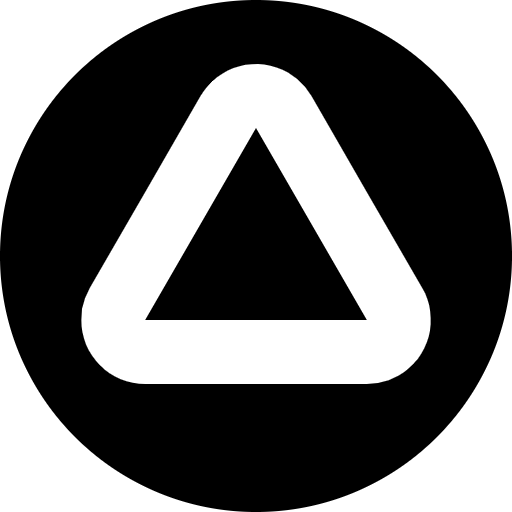
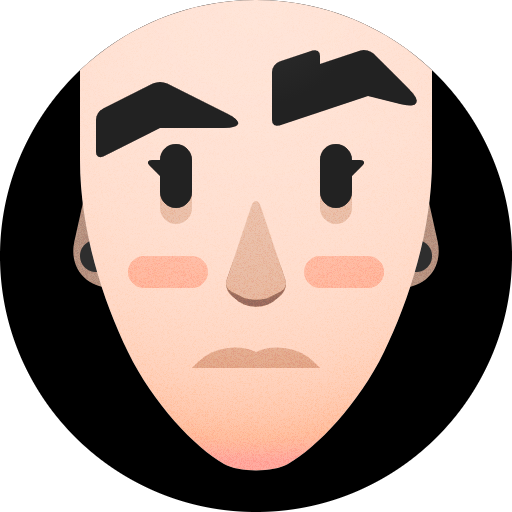
:art: new design with face that follows cursor.

diff --git a/src/components/Logo.tsx b/src/components/Logo.tsx
@@ -1,24 +1,143 @@
 import classnames from "classnames";
+import { useEffect, useRef } from "preact/hooks";
 import type { WrapperComponent } from "../types/WrapperComponent";
 
-export const Logo: WrapperComponent = ({ class: className, ...properties }) => (
-	<div
-		class={classnames(
-			// eslint-disable-next-line max-len
-			"pointer-events-none absolute origin-center left-1/2 top-1/2 w-200 h-200 transform-gpu -translate-y-1/2 -translate-x-1/2 flex rounded-full overflow-hidden text-black dark:text-white",
-			className
-		)}
-		{...properties}
-	>
-		<svg class="w-full" viewBox="0 0 4 4">
-			<circle class="fill-current" cx="2" cy="2" r="2" />
-			<path
-				class="text-white dark:text-black stroke-current"
-				d="M2 1l.865 1.5h-1.73z"
-				stroke-linecap="round"
-				stroke-linejoin="round"
-			/>
-			<path class="fill-current" d="M2 1l.865 1.5h-1.73z" />
-		</svg>
-	</div>
-);
+export const Logo: WrapperComponent = ({ class: className, ...properties }) => {
+	// eslint-disable-next-line no-null/no-null
+	const svg = useRef<SVGSVGElement>(null);
+
+	// eslint-disable-next-line functional/no-expression-statement, functional/functional-parameters
+	useEffect(() => {
+		const follow = ({
+			x: pointerX,
+			y: pointerY
+		}: Readonly<PointerEvent>) => {
+			const {
+				x: svgX = 0,
+				y: svgY = 0,
+				width = 0,
+				height = 0
+			} = svg.current?.getBoundingClientRect() ?? {};
+
+			// eslint-disable-next-line functional/no-expression-statement
+			svg.current?.style.setProperty(
+				"--x",
+				`${pointerX - (svgX + width / 2)}`
+			);
+			// eslint-disable-next-line functional/no-expression-statement
+			svg.current?.style.setProperty(
+				"--y",
+				`${pointerY - (svgY + height / 2)}`
+			);
+		};
+
+		// eslint-disable-next-line functional/no-expression-statement
+		window.addEventListener("pointermove", follow);
+
+		// eslint-disable-next-line functional/functional-parameters
+		return () => {
+			// eslint-disable-next-line functional/no-expression-statement
+			window.removeEventListener("pointermove", follow);
+		};
+	});
+
+	return (
+		<div
+			class={classnames(
+				// eslint-disable-next-line max-len
+				"pointer-events-none absolute origin-center left-1/2 top-1/2 w-200 h-200 transform-gpu -translate-y-1/2 -translate-x-1/2 flex rounded-full overflow-hidden text-black dark:text-white",
+				className
+			)}
+			{...properties}
+		>
+			<svg
+				aria-label="lukeshiru's avatar"
+				class="w-full"
+				ref={svg}
+				role="img"
+				viewBox="0 0 32 32"
+			>
+				<defs>
+					<clipPath id="clip">
+						<circle cx="16" cy="16" r="16" />
+					</clipPath>
+				</defs>
+				<g clip-path="url(#clip)">
+					<circle
+						class="text-black dark:text-white fill-current"
+						cx="16"
+						cy="16"
+						r="16"
+					/>
+					<g class="ears">
+						<path
+							fill="#B98"
+							// eslint-disable-next-line max-len
+							d="M6 9l-1.35 6.07C4.3 16.7 5.35 18 7 18h18c1.66 0 2.7-1.31 2.35-2.93L26 9H6z"
+						/>
+						<path
+							fill="#333"
+							d="M5 16a1 1 0 001 1h20a1 1 0 000-2H6a1 1 0 00-1 1z"
+						/>
+					</g>
+					<path
+						fill="#FDC"
+						// eslint-disable-next-line max-len
+						d="M5 0v10c0 4.35 1.42 8.75 3 12s4.18 5.95 6 7c.93.54 3.07.54 4 0 1.82-1.05 4.42-3.75 6-7 1.59-3.25 3-7.65 3-12V0H5z"
+					/>
+					<g class="face">
+						<path
+							fill="#ECB"
+							// eslint-disable-next-line max-len
+							d="M20 23h-8l.4-.4A3.32 3.32 0 0116 22a3.32 3.32 0 013.6.6l.4.4z"
+						/>
+						<path
+							fill="#B98"
+							// eslint-disable-next-line max-len
+							d="M14.59 18.59l-.24-.24c-.2-.2-.28-.56-.2-.82l.27-.79c.87-2.61 2.29-2.61 3.16 0l.26.79c.09.26 0 .63-.2.82l-.23.24a2 2 0 01-2.82 0z"
+						/>
+						<path
+							fill="#ECB"
+							// eslint-disable-next-line max-len
+							d="M14.16 17.53l1.52-4.58c.18-.52.46-.52.64 0l1.52 4.58a.6.6 0 01-.29.7l-.66.32c-.49.25-1.3.25-1.78 0l-.66-.33a.6.6 0 01-.3-.7z"
+						/>
+						<path
+							fill="#FCB"
+							// eslint-disable-next-line max-len
+							d="M9 16h3a1 1 0 010 2H9a1 1 0 010-2zm11 0h3a1 1 0 010 2h-3a1 1 0 010-2z"
+						/>
+						<path
+							fill="#ECB"
+							// eslint-disable-next-line max-len
+							d="M10 11.99V13a1 1 0 002 0v-1l-2-.01zm10 0V13a1 1 0 002 0v-1l-2-.01z"
+						/>
+						<path
+							fill="#333"
+							// eslint-disable-next-line max-len
+							d="M10 9.99V10h-.5c-.28 0-.34.16-.15.35L10 11v1a1 1 0 002 0v-2a1 1 0 00-1-1 1 1 0 00-1 .99zm10 0V12a1 1 0 002 0v-1l.65-.65c.2-.2.13-.35-.15-.35H22a1 1 0 00-1-1 1 1 0 00-1 .99zM10 8L6.45 9.78C6.2 9.9 6 9.78 6 9.5v-2c0-.28.2-.6.45-.72l3.1-1.56c.25-.12.65-.12.9 0l3.76 1.89c.99.49.9.89-.21.89h-4zm10-4.5V4l2.53-.84c.26-.09.63 0 .82.2l2.24 2.23c.78.78.54 1.2-.53.92L23 6l-5.53 1.84c-.26.09-.47-.06-.47-.34v-3c0-.28.21-.57.47-.66l2.06-.68c.26-.09.47.06.47.34z"
+						/>
+					</g>
+					<radialGradient
+						cx="16"
+						cy="0"
+						fx="16"
+						fy="0"
+						gradientUnits="userSpaceOnUse"
+						id="gradient"
+						r="32"
+					>
+						<stop offset="0" stop-color="#fff" />
+						<stop offset="1" />
+					</radialGradient>
+					<path
+						// eslint-disable-next-line max-len
+						d="M5 0v10c0 4.35 1.42 8.75 3 12s4.18 5.95 6 7c.93.54 3.07.54 4 0 1.82-1.05 4.42-3.75 6-7 1.59-3.25 3-7.65 3-12V0H5z"
+						fill="url(#gradient)"
+						fill-opacity=".25"
+						style="mix-blend-mode: color-burn"
+					/>
+				</g>
+			</svg>
+		</div>
+	);
+};

diff --git a/index.html b/index.html
@@ -8,8 +8,8 @@
 			name="apple-mobile-web-app-status-bar-style"
 			content="black-translucent"
 		/>
-		<meta name="apple-mobile-web-app-title" content="LUKE知る" />
-		<meta name="application-name" content="LUKE知る" />
+		<meta name="apple-mobile-web-app-title" content="LUKESHIRU" />
+		<meta name="application-name" content="LUKESHIRU" />
 		<meta name="author" content="humans.txt" />
 		<meta
 			name="description"
@@ -44,12 +44,12 @@
 			property="og:image"
 			content="https://lukeshiru.me/assets/images/thumb.png"
 		/>
-		<meta property="og:image:alt" content="LUKE知る logo" />
+		<meta property="og:image:alt" content="LUKESHIRU logo" />
 		<meta property="og:image:height" content="1080" />
 		<meta property="og:image:type" content="image/png" />
 		<meta property="og:image:width" content="1920" />
-		<meta property="og:site_name" content="LUKE知る" />
-		<meta property="og:title" content="LUKE知る" />
+		<meta property="og:site_name" content="LUKESHIRU" />
+		<meta property="og:title" content="LUKESHIRU" />
 		<meta property="og:type" content="website" />
 		<meta property="og:url" content="https://lukeshiru.me/" />
 		<link
@@ -86,7 +86,7 @@
 			href="https://lukeshiru.me/assets/images/thumb.png"
 		/>
 		<meta name="theme-color" content="#000" />
-		<title>LUKE知る</title>
+		<title>LUKESHIRU</title>
 	</head>
 	<body
 		class="

diff --git a/src/styles/animations.css b/src/styles/animations.css
@@ -1,9 +1,3 @@
-@keyframes circle-reveal {
-	to {
-		clip-path: circle(125vmax);
-	}
-}
-
 @keyframes rotate {
 	to {
 		transform: translate3d(var(--tw-translate-x), var(--tw-translate-y), 0)
@@ -15,14 +9,6 @@
 @media (prefers-reduced-motion: no-preference) {
 	:root {
 		--rotate-duration: calc(60s * 5);
-		--reveal-duration: 2s;
-	}
-	.circle-reveal-animation {
-		animation-duration: var(--reveal-duration);
-		animation-fill-mode: both;
-		animation-name: circle-reveal;
-		animation-timing-function: ease-in-out;
-		clip-path: circle(0);
 	}
 	.rotate-clockwise-animation,
 	.rotate-counterclockwise-animation {
@@ -34,5 +20,24 @@
 	}
 	.rotate-counterclockwise-animation {
 		animation-direction: reverse;
+	}
+
+	.ears,
+	.face {
+		transition: ease-out transform 0.2s;
+	}
+
+	.ears {
+		transform: translate(
+			clamp(-0.3px, calc(var(--x, 0) * (-0.3px / 100)), 0.3px),
+			clamp(-0.5px, calc(var(--y, 0) * (-0.5px / 100)), 0.5px)
+		);
+	}
+
+	.face {
+		transform: translate(
+			clamp(-1px, calc(var(--x, 0) * (1px / 100)), 1px),
+			clamp(-1px, calc(var(--y, 0) * (1px / 100)), 1px)
+		);
 	}
 }

diff --git a/vite.config.ts b/vite.config.ts
@@ -24,10 +24,10 @@ export default defineConfig({
 						type: "image/png"
 					}
 				],
-				name: "LUKE知る",
+				name: "LUKESHIRU",
 				orientation: "any",
 				// eslint-disable-next-line @typescript-eslint/naming-convention
-				short_name: "LUKE知る",
+				short_name: "LUKESHIRU",
 				// eslint-disable-next-line @typescript-eslint/naming-convention
 				start_url: "/",
 				// eslint-disable-next-line @typescript-eslint/naming-convention

diff --git a/src/components/App.tsx b/src/components/App.tsx
@@ -11,7 +11,7 @@ import { OrbitNavigation } from "./OrbitNavigation";
 // eslint-disable-next-line functional/functional-parameters
 export const App: WrapperComponent = () => (
 	<>
-		<OnlyScreen class="bg-white circle-reveal-animation dark:bg-black">
+		<OnlyScreen class="bg-white dark:bg-black">
 			<OrbitContainer>
 				<OrbitNavigation>
 					<OrbitItemList>{orbitLinks}</OrbitItemList>

diff --git a/README.md b/README.md
@@ -1,6 +1,6 @@
-# LUKE知る Website (lukeshiru.me)
+# LUKESHIRU Website (lukeshiru.me)
 
-Quick access to some of LUKE知る cloud profiles.
+Quick access to some of LUKESHIRU cloud profiles.
 
 ## Technologies
 
